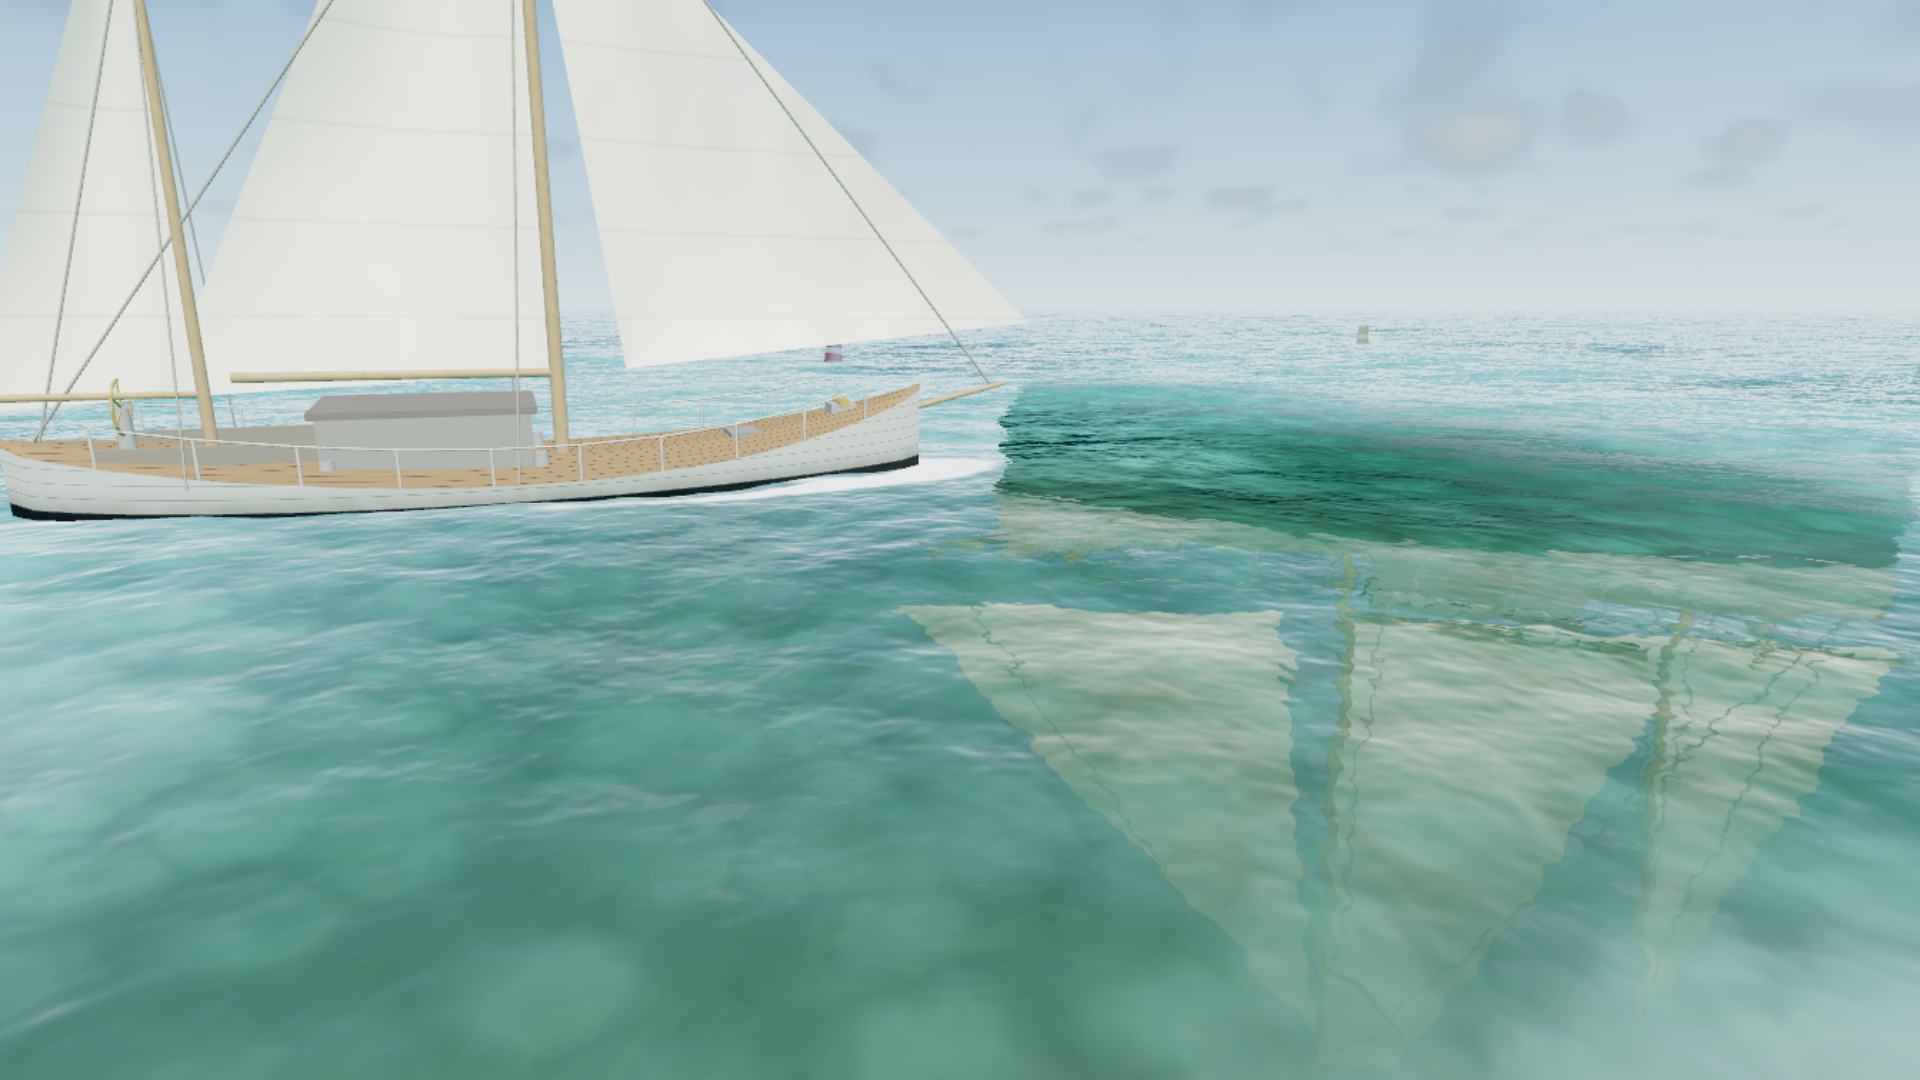
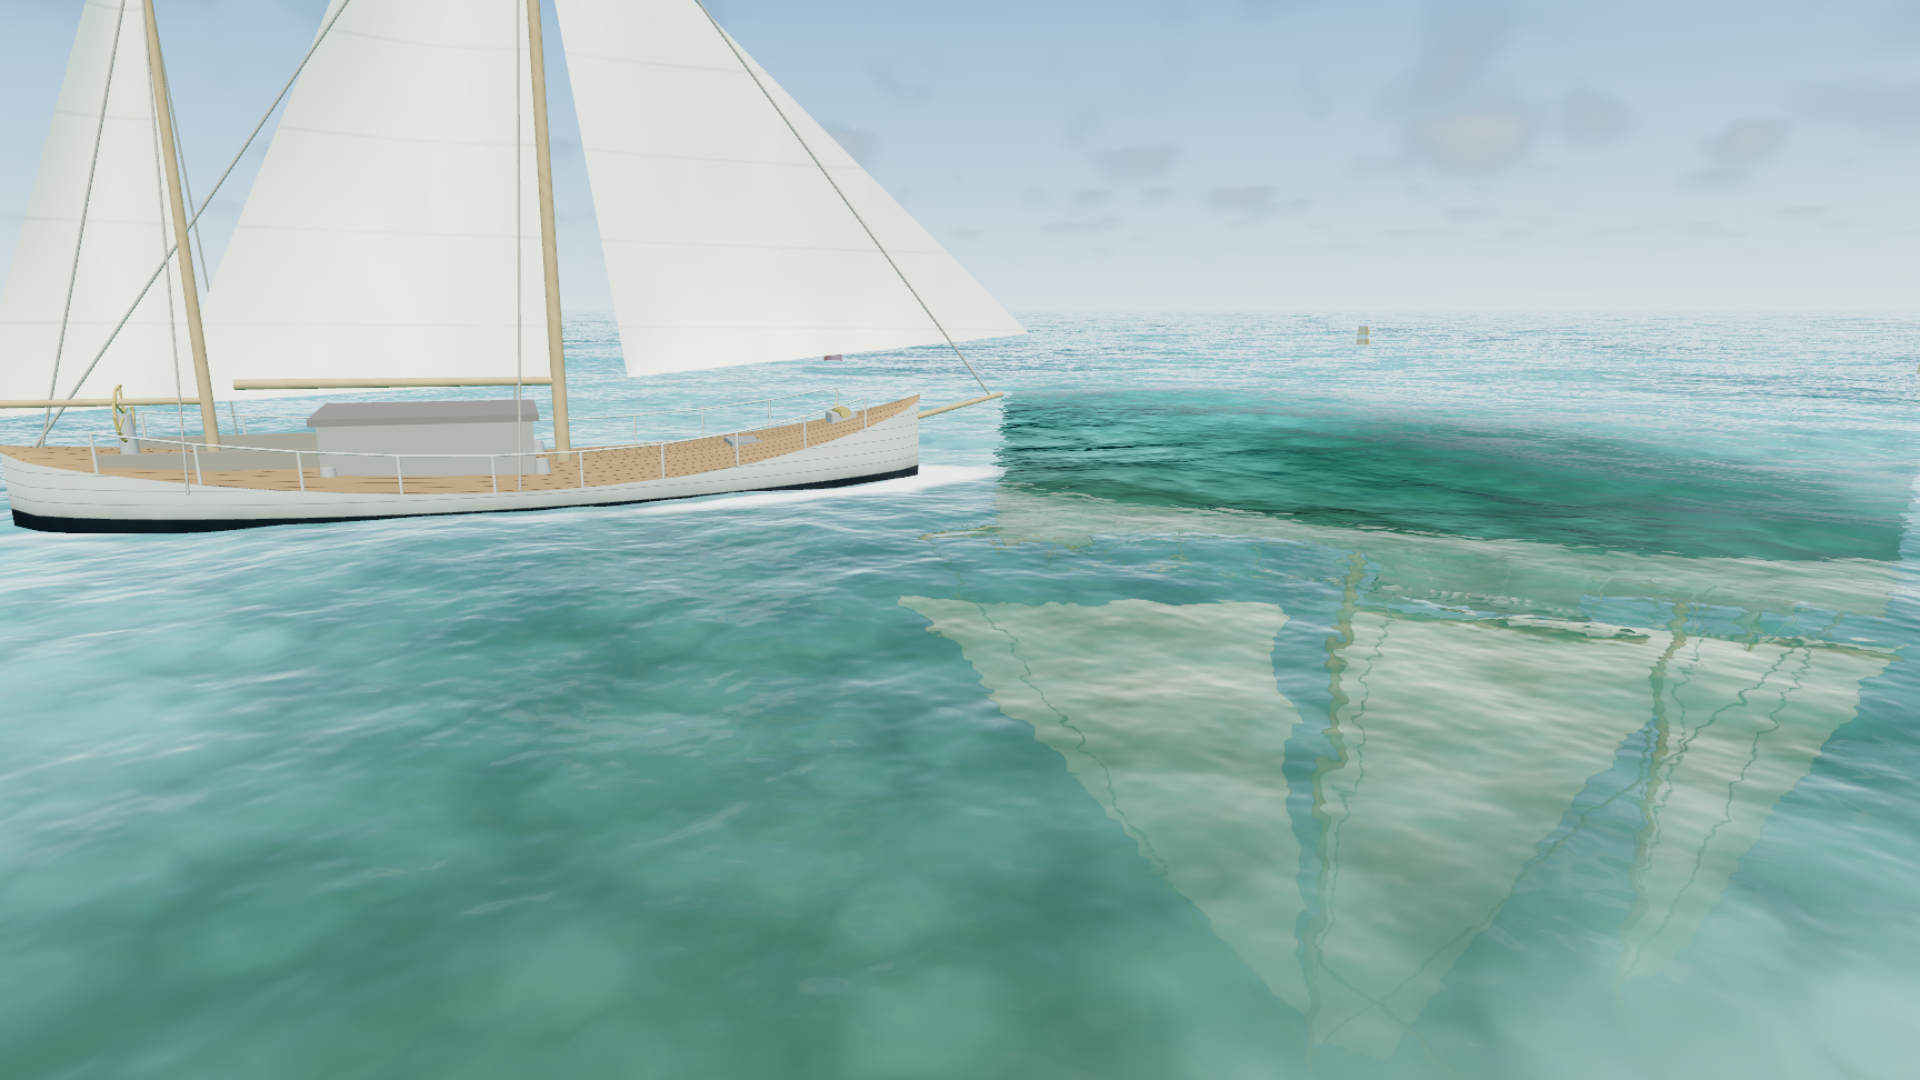
Ease the storm foam, dissipate the wake, filter distant foam by pixel footprint
Three things reported from actually flying the demo.

Storm was too uniformly white to read as a sea. The wind-coverage gain drops
from 0.45 to 0.28, which leaves dark water between the streaks and lets the
swell show through it.

The wake was a hard white line running off to the horizon behind her —
painted on, rather than water closing over a hull. Its decay length was more
than twice what it should have been, and nothing broke it up: it now falls
off over about ten metres and hands over to the foam noise as it ages, so it
tears apart instead of ending.

Distant foam flickered as sub-pixel specks when zoomed out, which is painful
to look at. That one is mine: pushing foamFade from 1900 m to 6000 m in the
far-field step brought back whitecaps at distances where a whole whitecap is
smaller than a pixel, and a hard threshold under minification switches on and
off between frames. The threshold band is now widened by fwidth of its own
argument, so far foam converges to its local average rather than sampling
across it. foamFade also comes back in to 4200 m.

An honest note on that last one: I could not verify it with a measurement.
The obvious metric — mean absolute difference between two frames a thirtieth
of a second apart, over the water band — came out at 0.08 without the filter
and -1.61 with it, i.e. noise either way. The metric downsamples the capture
to 480x270 before differencing, and that averaging is itself exactly the
[…]

diff --git a/src/ocean/material.js b/src/ocean/material.js
@@ -19,7 +19,7 @@
 
 import { DoubleSide, FrontSide, Mesh, MeshBasicNodeMaterial } from 'three/webgpu';
 import {
-	Fn, If, abs, cameraPosition, dFdx, dFdy, dot, exp, faceDirection, float, length, max, min, mix,
+	Fn, If, abs, cameraPosition, dFdx, dFdy, dot, exp, faceDirection, float, fwidth, length, max, min, mix,
 	mx_fractal_noise_float, normalize, oneMinus, positionGeometry, positionWorld, pow, reflect,
 	refract, saturate, screenUV, smoothstep, step, texture, varyingProperty, vec2, vec3,
 } from 'three/tsl';
@@ -585,7 +585,13 @@ export function createOceanMaterial( env, field, sky, opts = {} ) {
 			// river down the arms because the amount fed straight past the foam
 			// mask's upper threshold and saturated — everything above 0.70 looks
 			// identical, so the whole trail flattened into one shape with no edge.
-			const decay = exp( astern.mul( - 0.045 ) ).mul( smoothstep( 0.0, 3.0, astern ) );
+			// A wake dissipates. The old length scale left a hard white line running
+			// off to the horizon behind her, which reads as painted-on rather than as
+			// water closing over a hull. It also tears apart as it ages, so the noise
+			// takes over from the shape with distance astern.
+			const age = saturate( astern.mul( 0.022 ) ).toVar( 'wakeAge' );
+			const decay = exp( astern.mul( - 0.10 ) ).mul( smoothstep( 0.0, 3.0, astern ) )
+				.mul( mix( float( 1.0 ), foamFine.mul( 1.6 ).sub( 0.55 ), age ) );
 			const wake = arm.mul( 0.42 ).add( trail.mul( 0.26 ) ).mul( decay ).mul( u.vesselSpeed ).toVar( 'wake' );
 
 			// Bow wave. A hull pushing water has a bright, hard shoulder ahead of the
@@ -615,7 +621,7 @@ export function createOceanMaterial( env, field, sky, opts = {} ) {
 		}
 
 		// Distant foam is the worst aliasing source in the whole scene.
-		const foamFade = oneMinus( smoothstep( 1200.0, 6000.0, vRadial ) );
+		const foamFade = oneMinus( smoothstep( 900.0, 4200.0, vRadial ) );
 
 		const erode = foamFine.mul( 0.62 ).add( foamPatch.mul( 0.52 ) ).add( 0.14 ).toVar( 'foamErode' );
 		// Two smoothsteps in series *is* wrong in principle — foamFromJacobian already
@@ -625,7 +631,22 @@ export function createOceanMaterial( env, field, sky, opts = {} ) {
 		// slab of sea. Re-basing ten hand-tuned numbers to chase a purity argument is
 		// a worse trade than keeping the band, so the band stays and the onset is
 		// moved by wind speed instead — which is the part that was actually missing.
-		const foamMask = smoothstep( 0.22, 0.70, foamRaw.mul( erode ) ).mul( foamFade ).toVar( 'foamMask' );
+		// Widen the band by this pixel's own footprint.
+		//
+		// Pushing foamFade out to six kilometres brought back distant whitecaps, and
+		// with them a field of sub-pixel white specks switching on and off between
+		// frames — the classic hard-threshold-under-minification sparkle, and
+		// genuinely painful to look at when zoomed out. fwidth gives the range the
+		// threshold spans inside one pixel, so far foam converges to its own average
+		// instead of flickering across it. Same foam, resolved rather than sampled.
+		const foamArg = foamRaw.mul( erode ).toVar( 'foamArg' );
+		const foamAA = min( fwidth( foamArg ).mul( 1.4 ), float( 0.34 ) ).toVar( 'foamAA' );
+
+		const foamMask = smoothstep(
+			max( float( 0.22 ).sub( foamAA ), float( 0.02 ) ),
+			float( 0.70 ).add( foamAA ),
+			foamArg
+		).mul( foamFade ).toVar( 'foamMask' );
 
 		// Foam is lit, not painted white: it darkens in shadow and warms at sunset.
 		const foamLit = u.foamColor.mul(

diff --git a/src/env/uniforms.js b/src/env/uniforms.js
@@ -377,7 +377,7 @@ export function syncUniforms( env, dt = 0 ) {
 		// range into something a threshold can use: 3 m/s barely moves it, 9.5 m/s
 		// takes about a fifth off, 21 m/s takes nearly half.
 		const f = Math.min( 1, Math.sqrt( W / 0.05 ) );
-		u.foamThreshold.value = p.foamThreshold * ( 1 - 0.45 * f );
+		u.foamThreshold.value = p.foamThreshold * ( 1 - 0.28 * f );
 
 	}
 	u.foamSharpness.value = p.foamSharpness;
